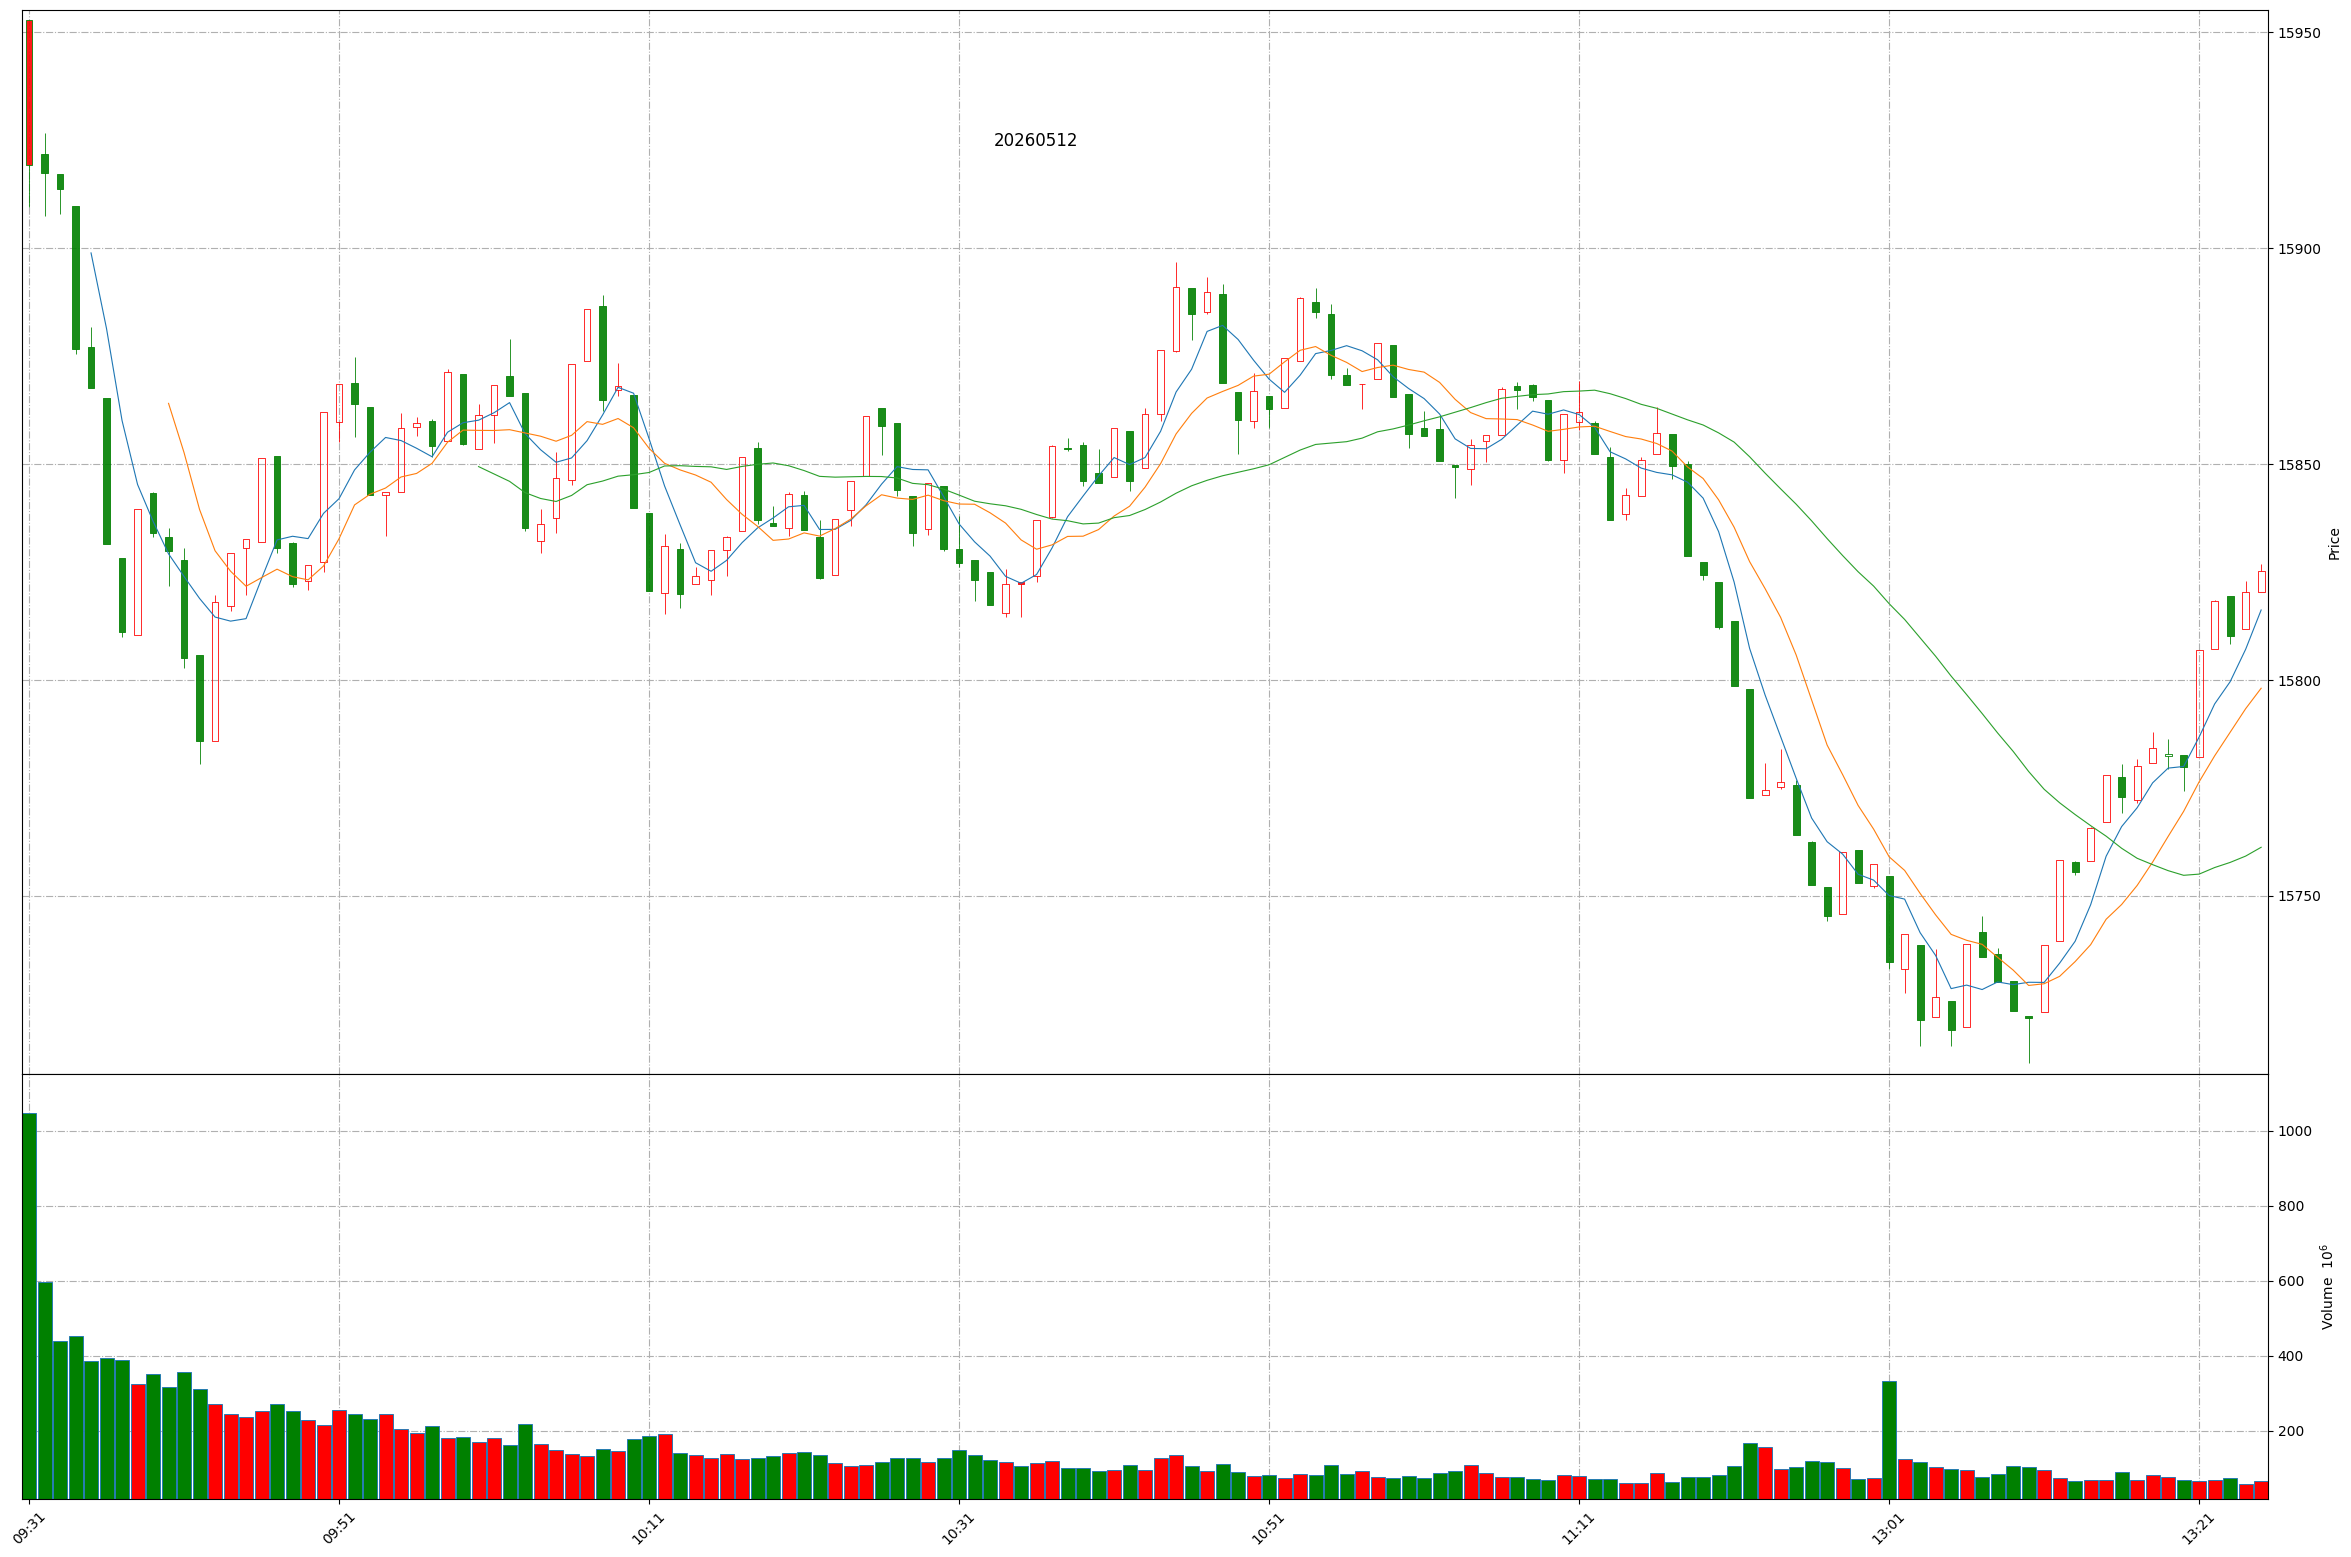
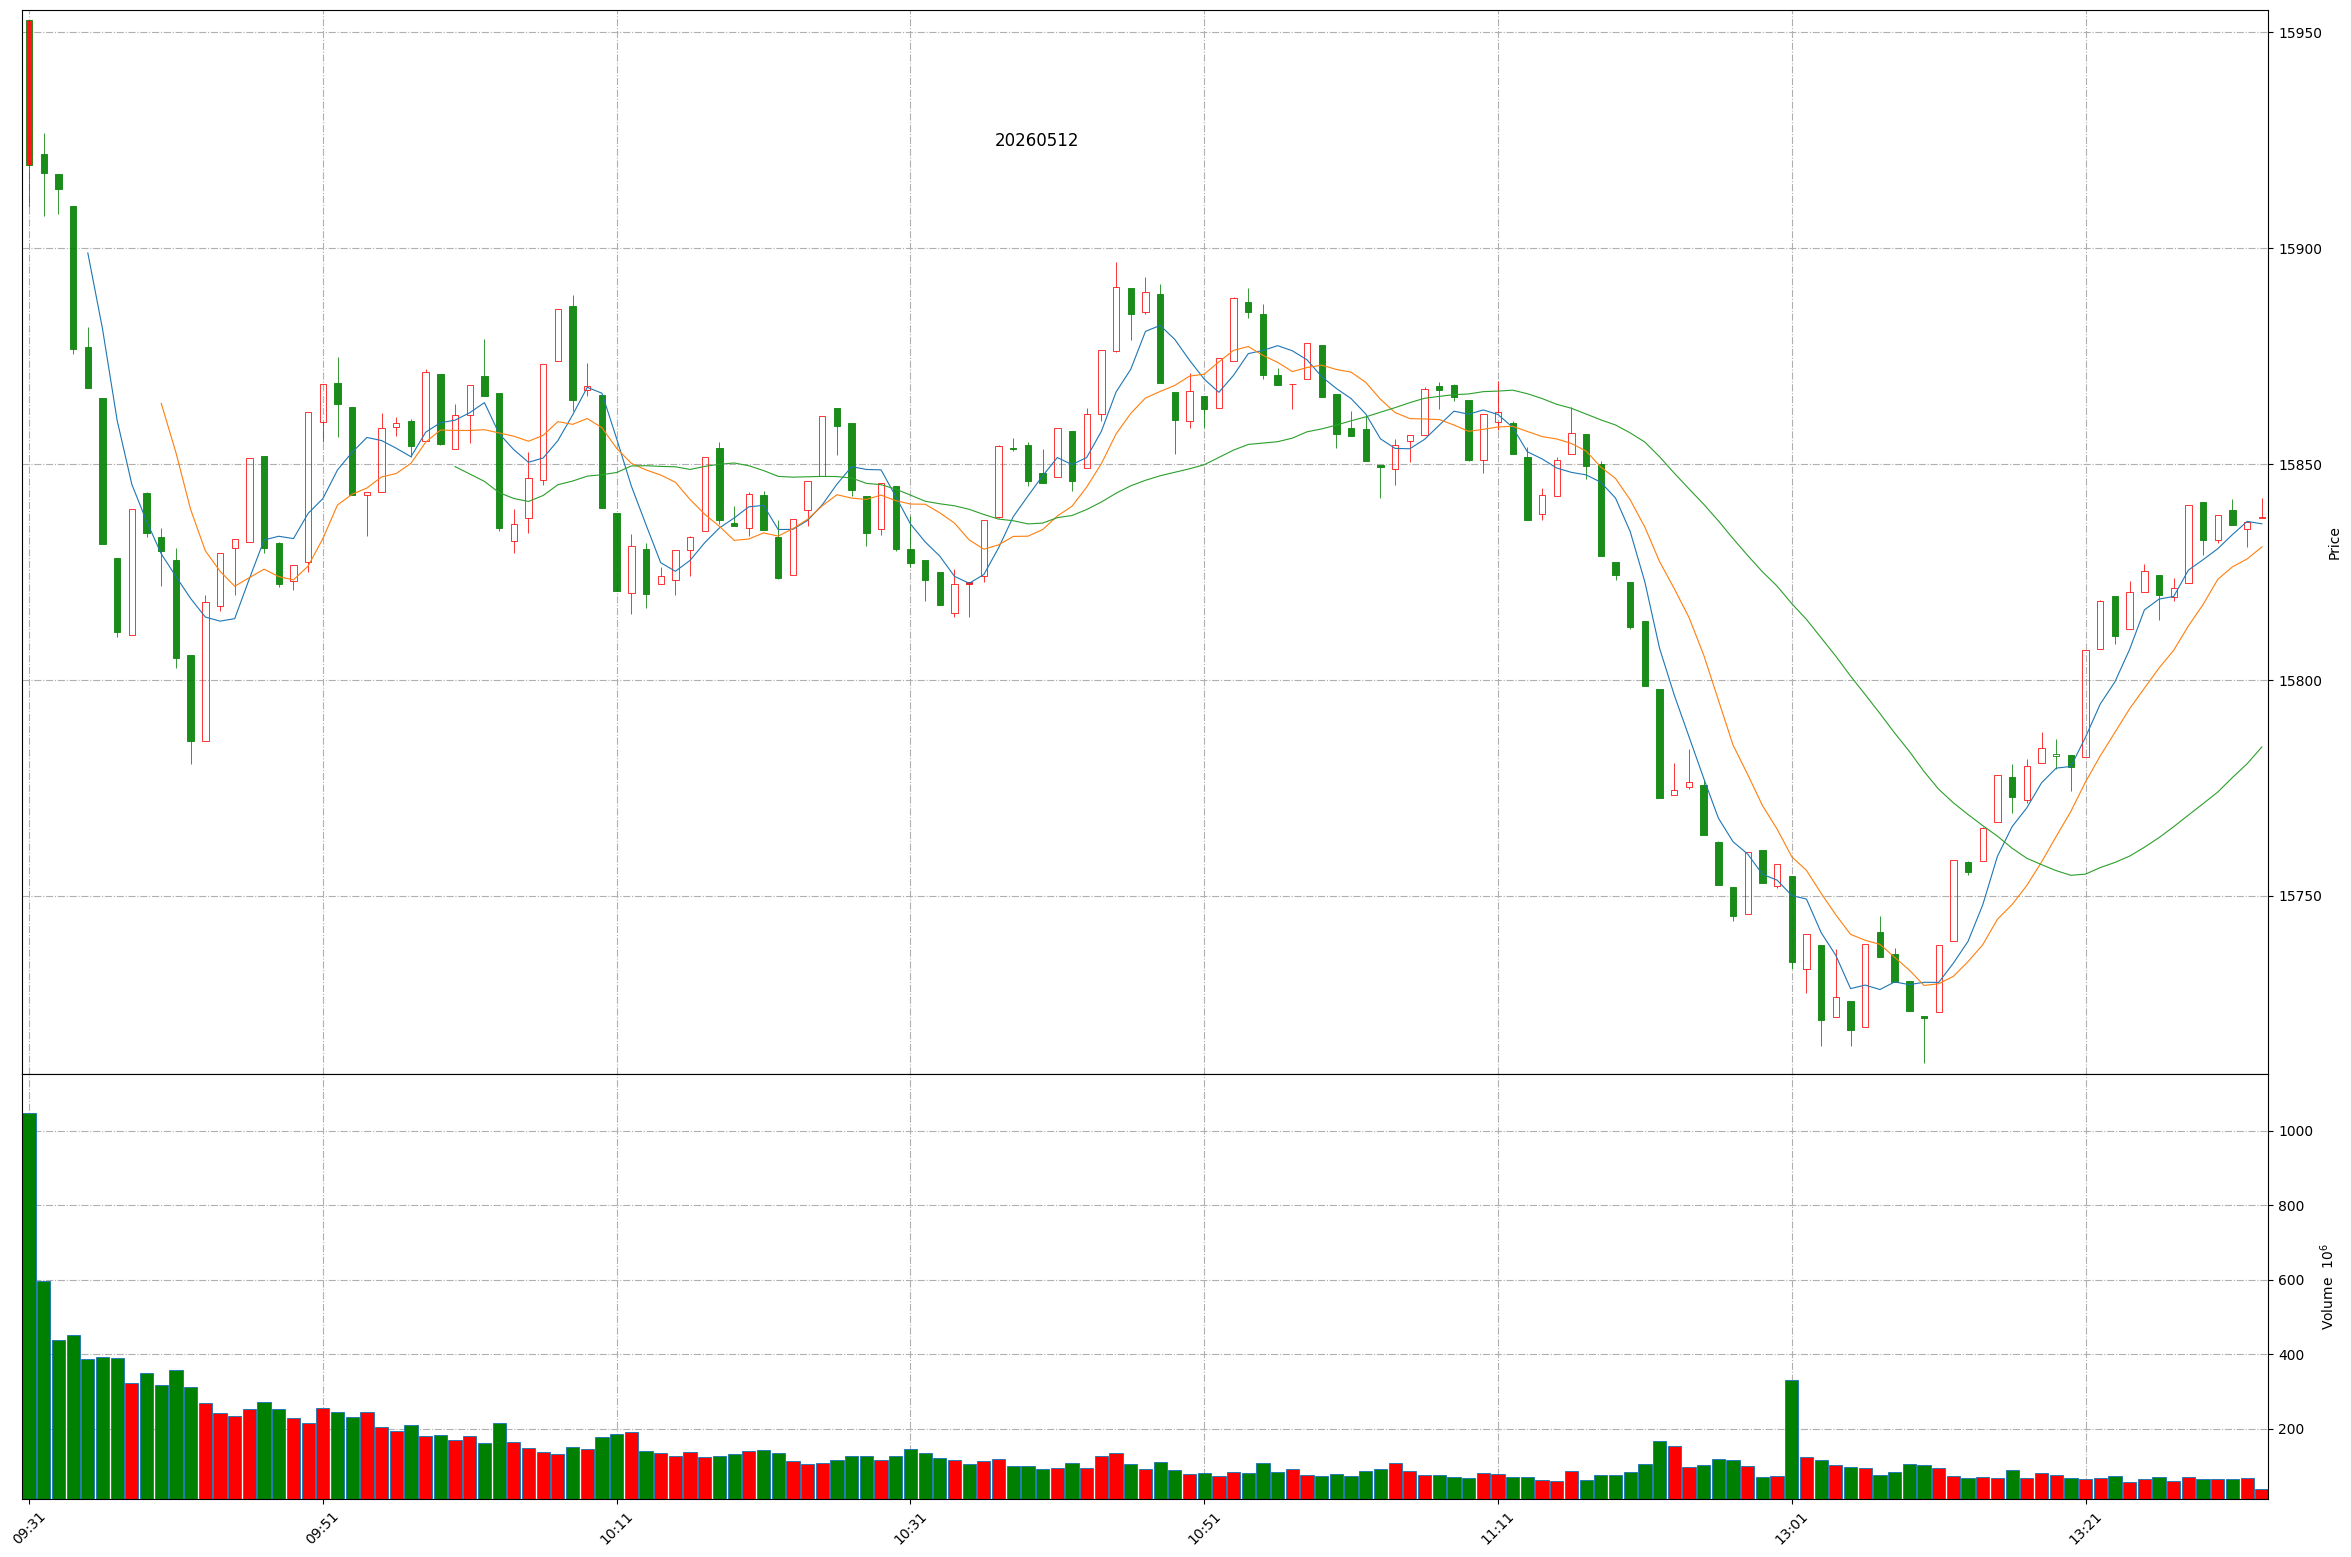
Github action update at 2026-05-12 13:32:42.

diff --git a/README.md b/README.md
@@ -1,11 +1,11 @@
 
 # Daily-A-share-market-quotes 每日 A 股指数（5min 更新）- 20260512
 
-### 上证指数 20260512 13:25
+### 上证指数 20260512 13:32
 ![](./fig/2026/5/20260512-sh000001.png)
 
-### 深证成指 20260512 13:25
+### 深证成指 20260512 13:32
 ![](./fig/2026/5/20260512-sz399001.png)
 
-### 北证50 20260512 13:25
+### 北证50 20260512 13:32
 ![](./fig/2026/5/20260512-bj899050.png)
